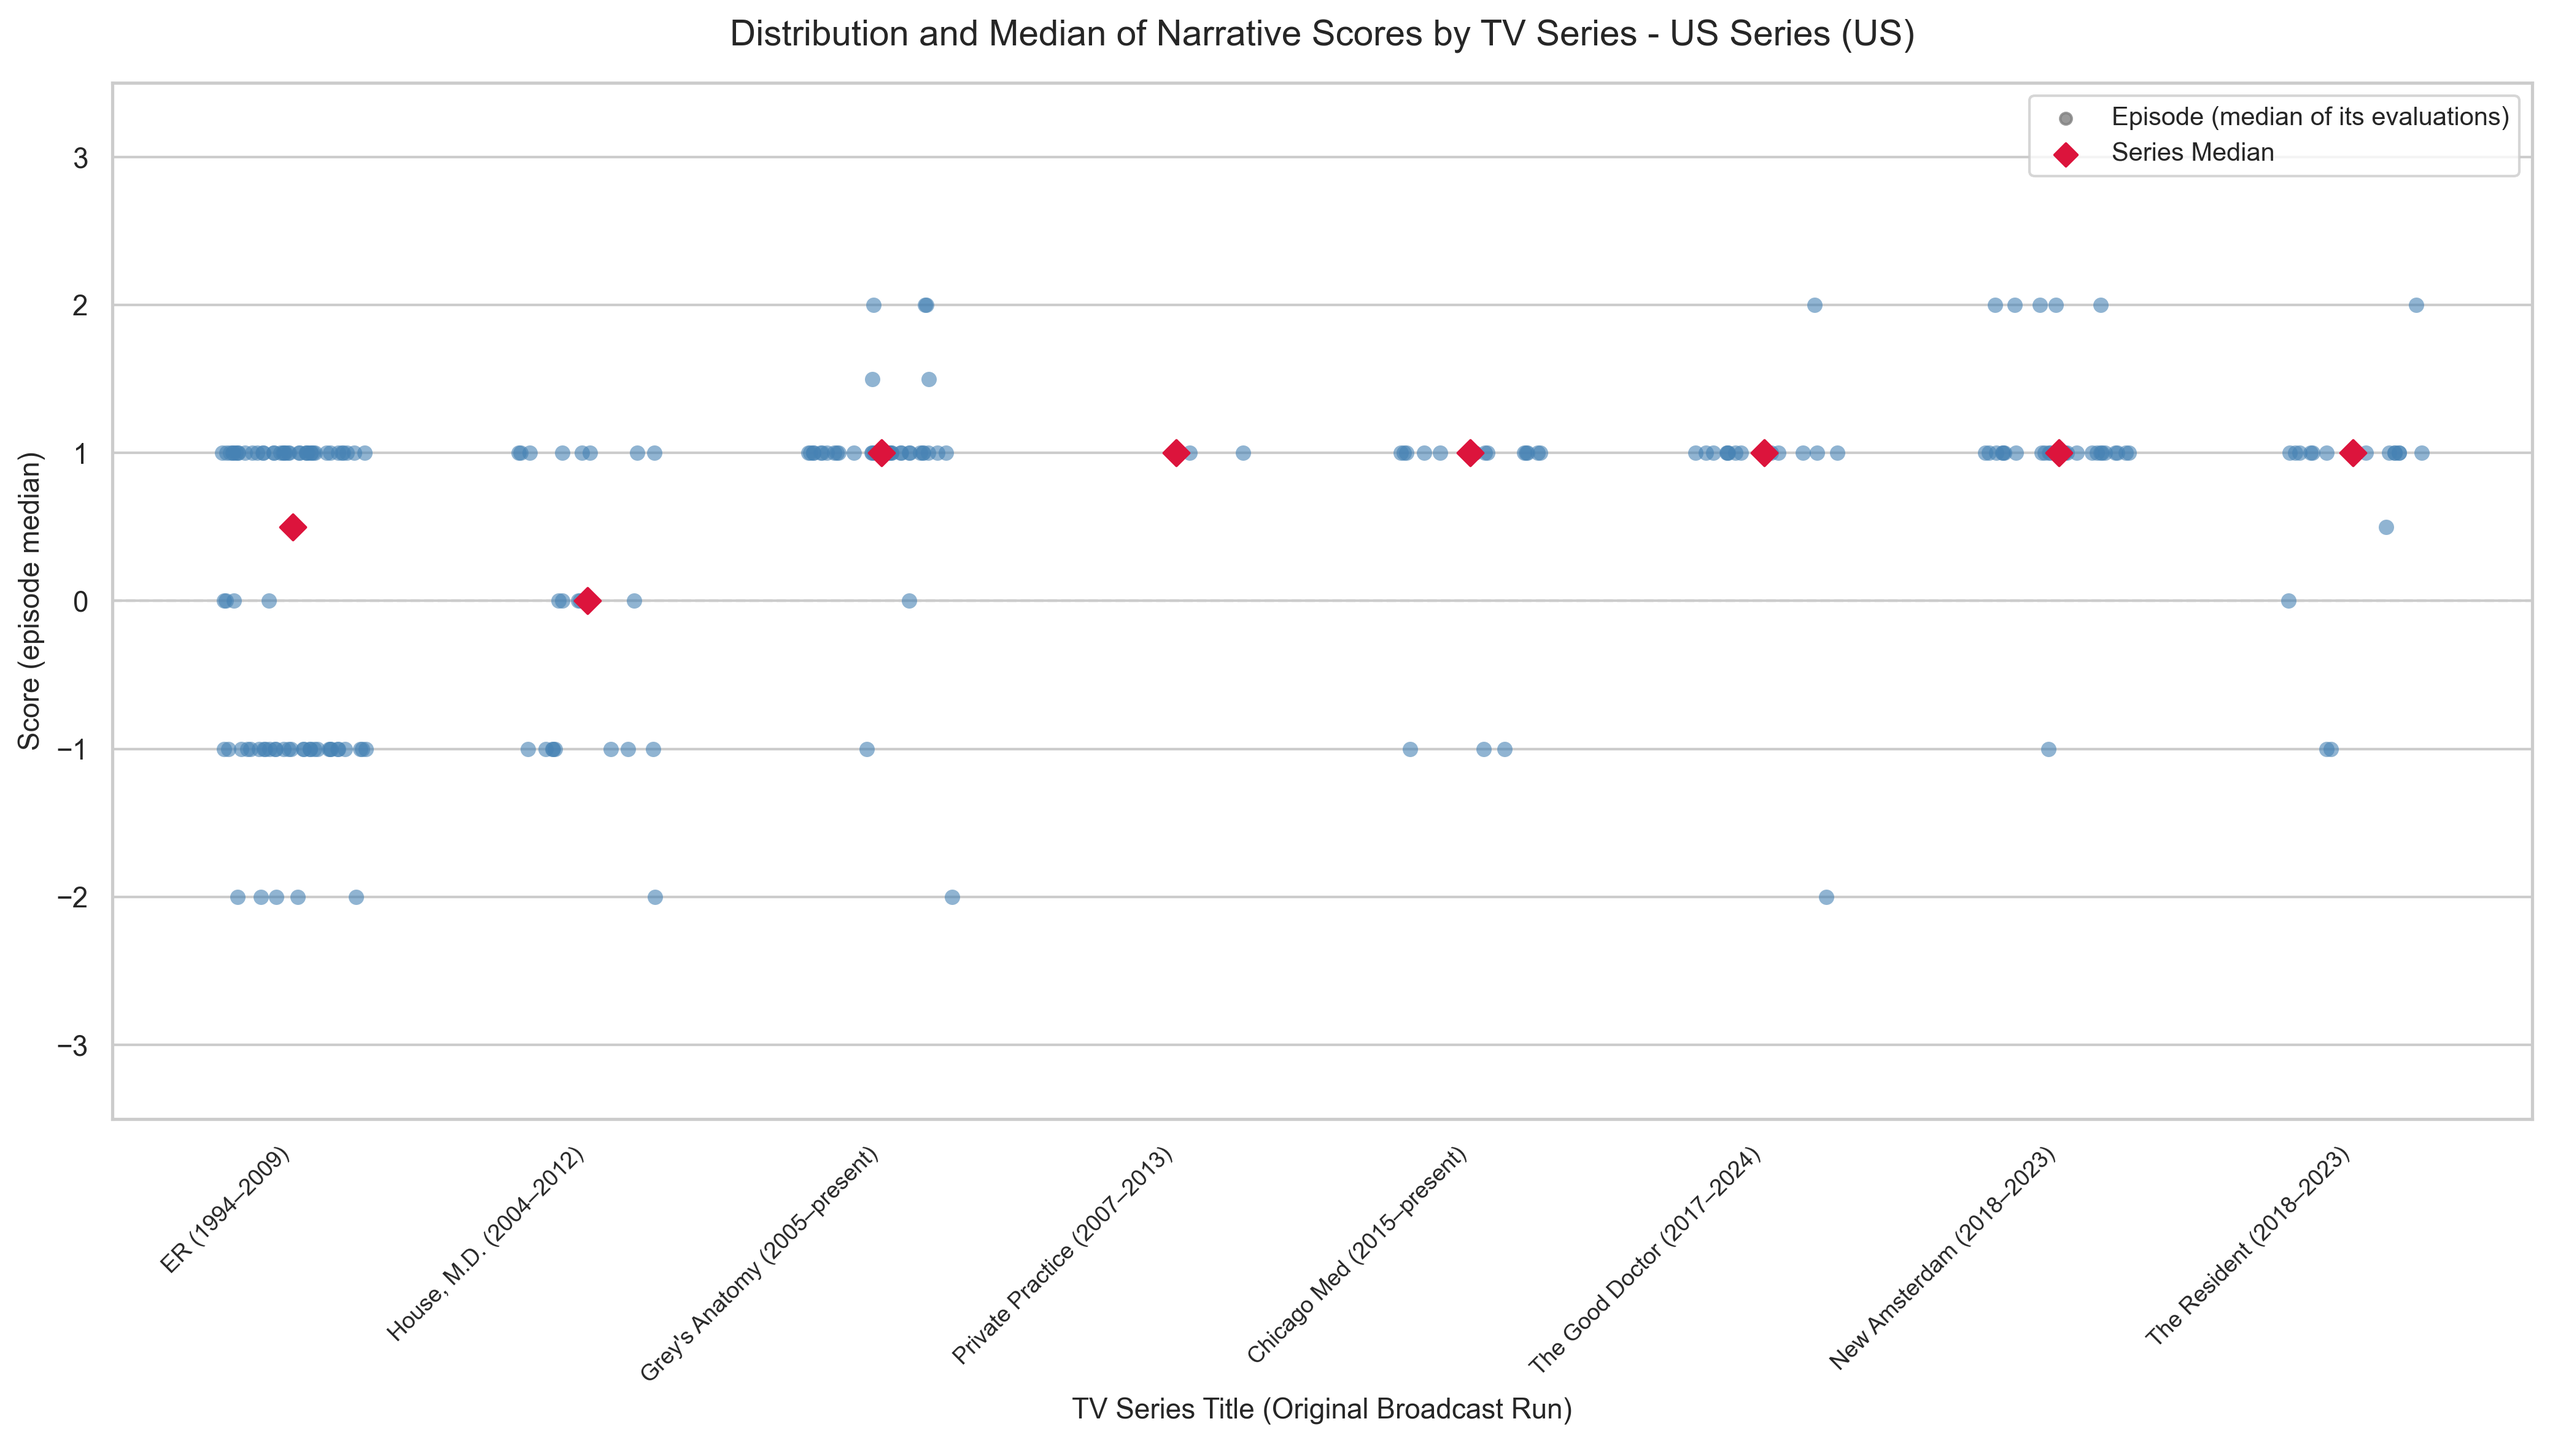
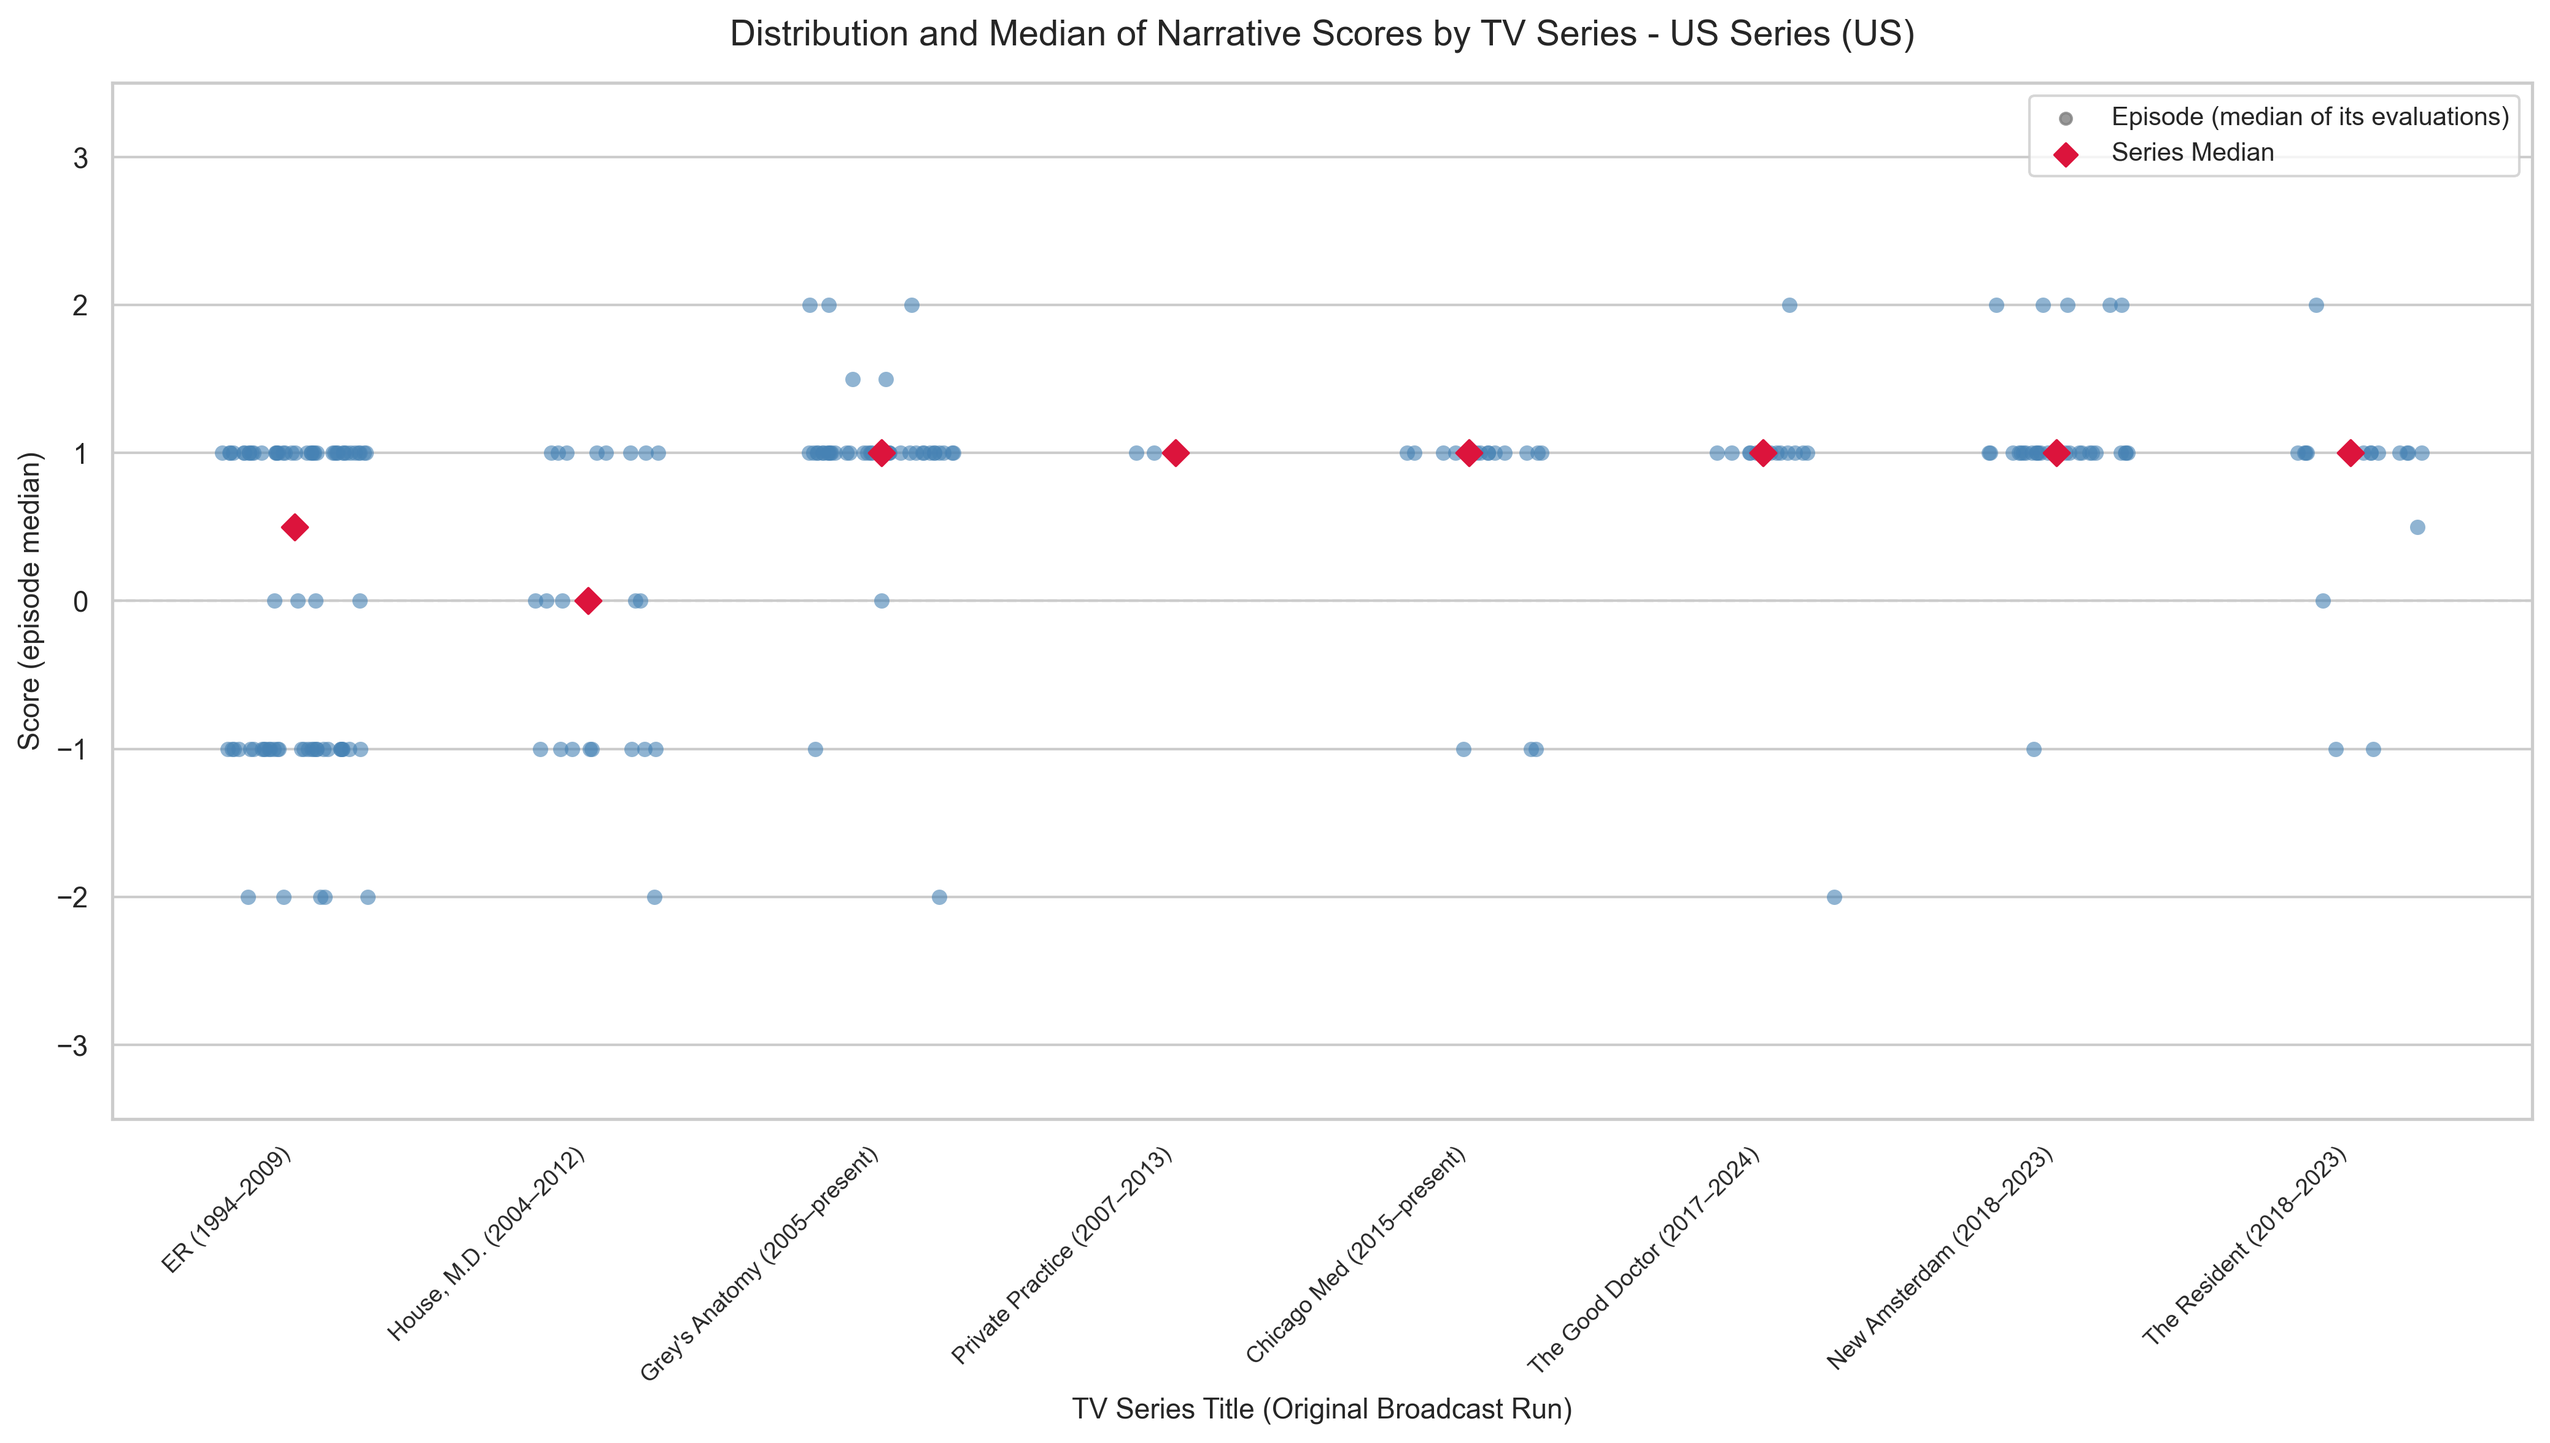
up

diff --git a/analysis/common.py b/analysis/common.py
@@ -52,7 +52,7 @@ SERIES_RUNS = {
     "Medicina Generale": "2007–2010",
     "Terapia d’urgenza": "2008–2009",
     "DOC – Nelle tue mani": "2020–present",
-    "Lea – Un nuovo giorno": "2022–present",
+    "Lea – Un nuovo giorno": "2022–2023",
     "Braccialetti Rossi": "2014–2016",
     "Crimini Bianchi": "2008–2009",
     "Cuori": "2021–present",

diff --git a/results/figures/racism_distribution_IT_EN.md b/results/figures/racism_distribution_IT_EN.md
@@ -27,6 +27,6 @@ Valid episodes only (at most 5 N/A out of 10), numeric evaluations only.
 | Oltre la soglia | 2019 | 2019-2019 | 1 | 10 | +1.00 | 0.00 / n/a | +1.0 to +1.0 |
 | Mental | 2020 | 2020-2020 | 2 | 20 | +1.00 | 0.00 / 0.00 | +1.0 to +1.0 |
 | DOC – Nelle tue mani | 2020–present | 2020-2024 | 4 | 40 | +1.00 | 0.43 / 0.50 | +1.0 to +2.0 |
-| Lea – Un nuovo giorno | 2022–present | 2022-2022 | 1 | 10 | +1.00 | 0.00 / n/a | +1.0 to +1.0 |
+| Lea – Un nuovo giorno | 2022–2023 | 2022-2022 | 1 | 10 | +1.00 | 0.00 / n/a | +1.0 to +1.0 |
 
 Series with SD of episode medians = 0: Crimini Bianchi, Mental, Lea – Un nuovo giorno, Oltre la soglia.
